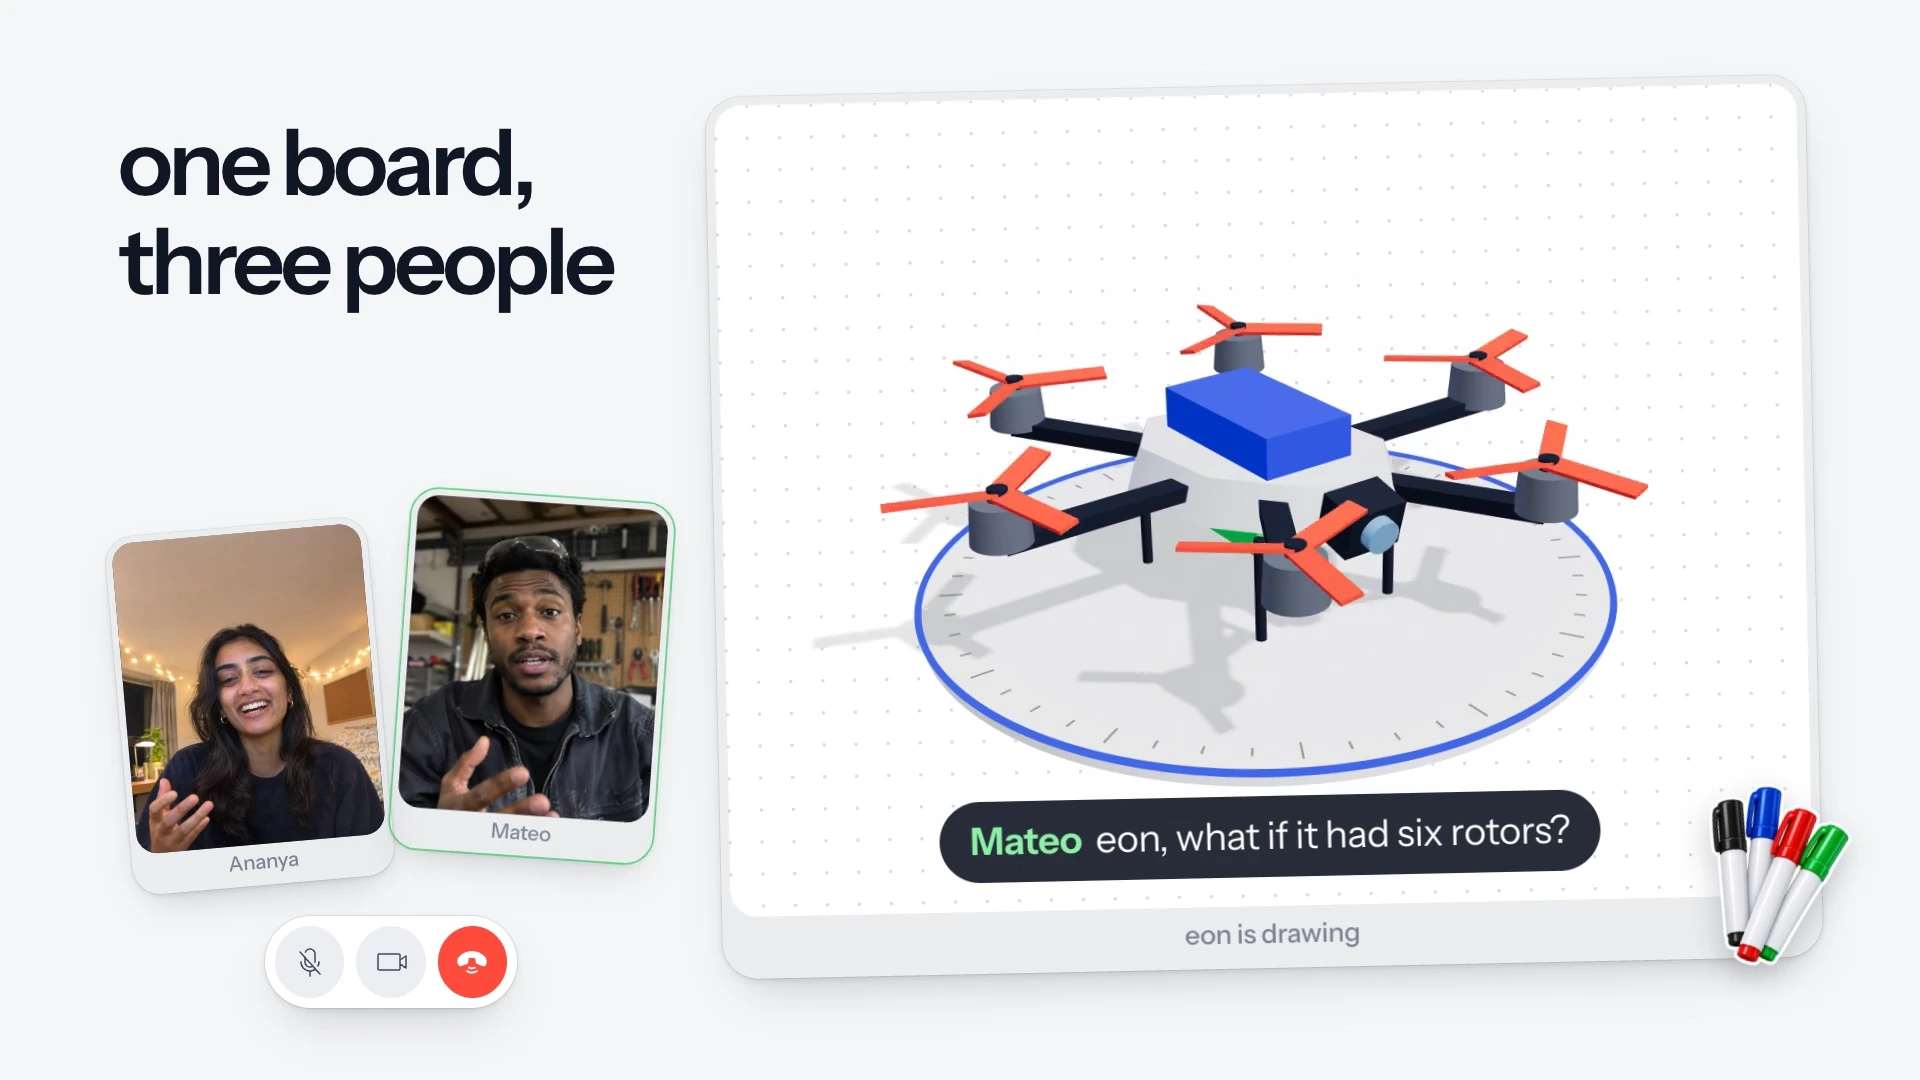
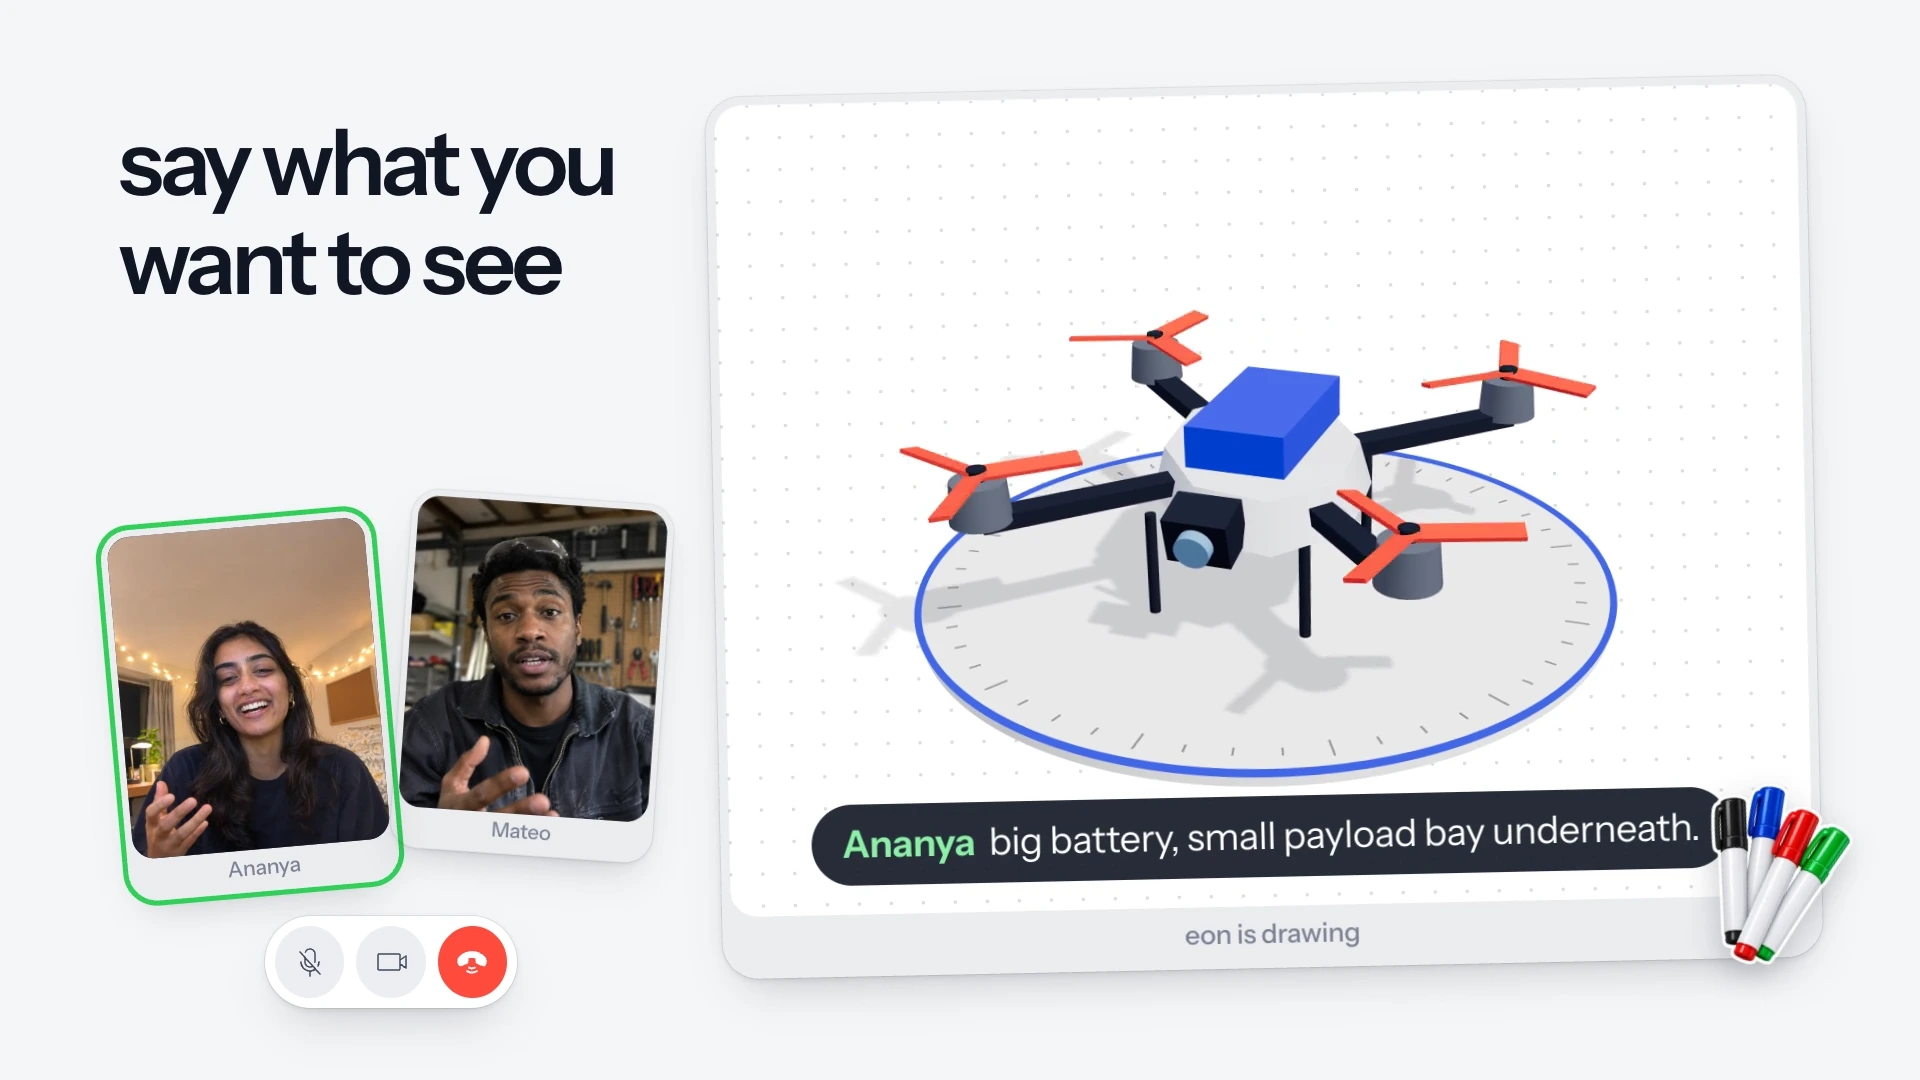
use the say what you want to see frame for eon

diff --git a/src/data/projects.ts b/src/data/projects.ts
@@ -25,7 +25,7 @@ export const projects = [
     media: [{
       type: "cover",
       src: "/media/project-previews/eon.webp",
-      alt: "Two FaceTime participants beside Eon's shared six-rotor drone in the launch demo.",
+      alt: "Two FaceTime callers and Eon's four-rotor drone beneath the words 'say what you want to see'.",
       status: "ready",
     }],
   },
